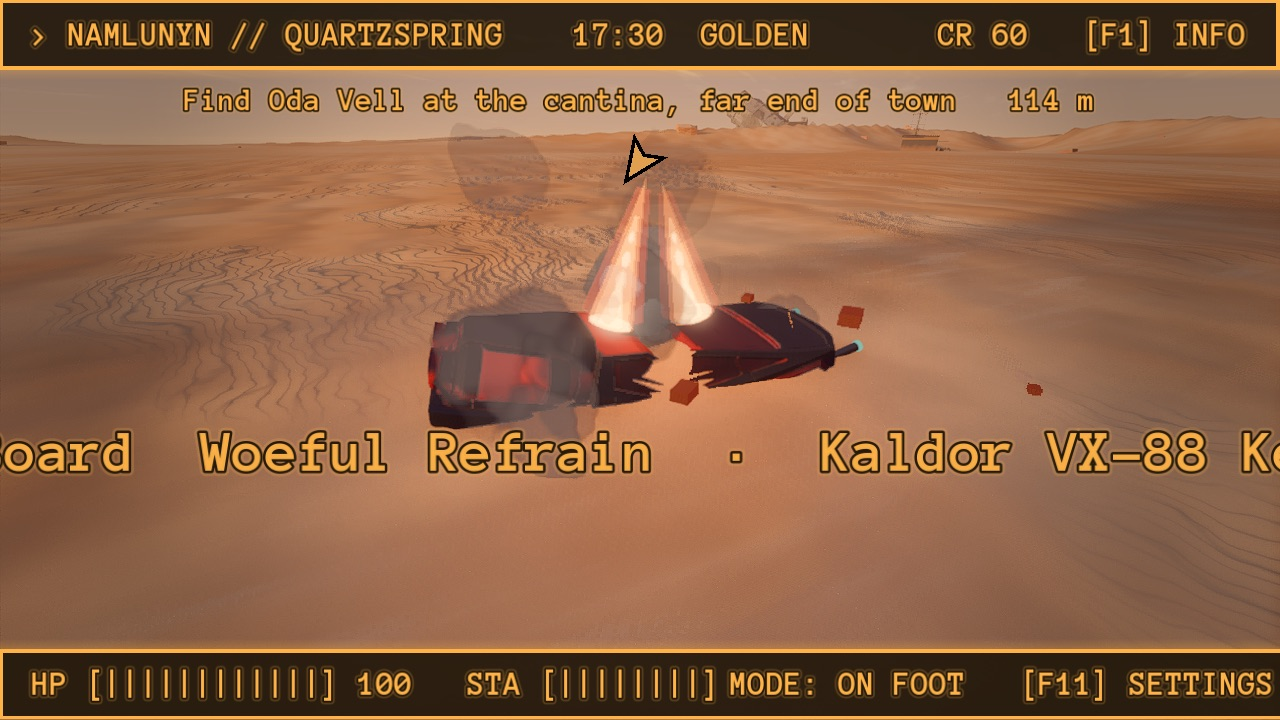
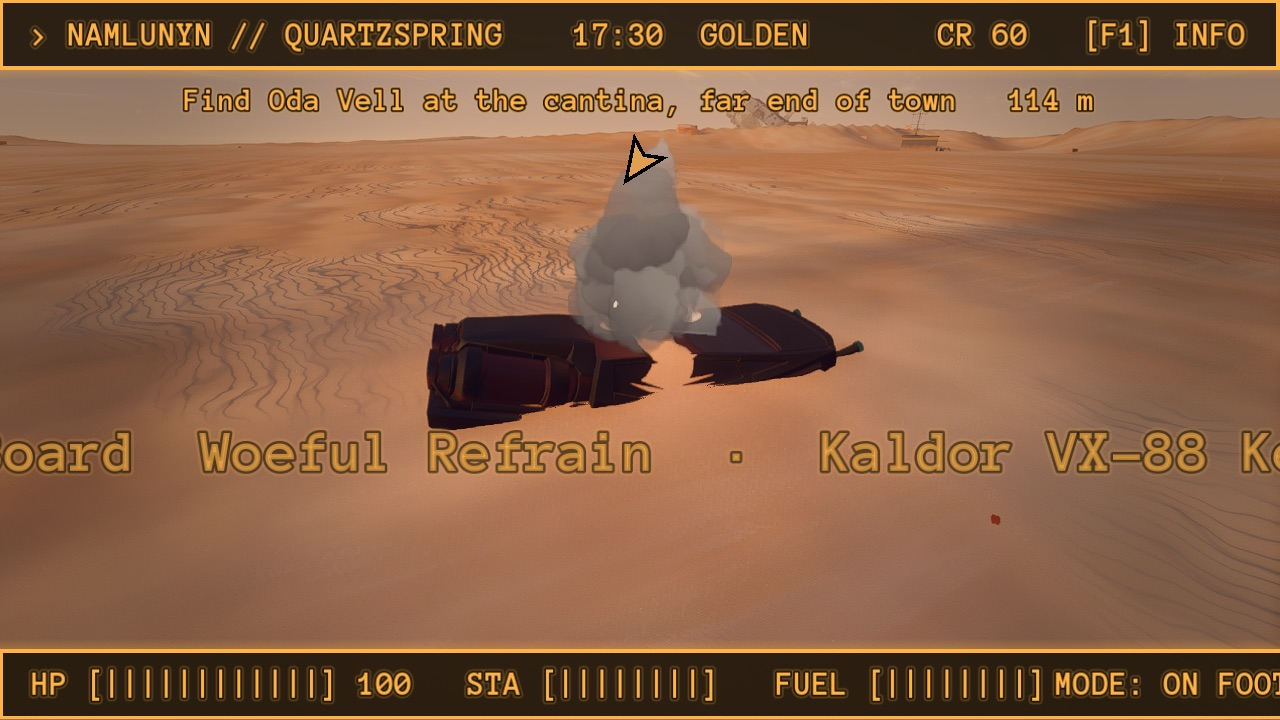
Crash animations: ships and the barge, smaller flames and more smoke (#404)
Parked ships shot to pieces, the player's ship and Remnant interceptors
going down (with the speed they had, from AtmoFlight.crash_velocity) and
the party barge all crash through CrashWreck now, on a copy of their model
(the berth, fighter and barge keep their own). A parked wreck stays where
it stands and settles only a little (it is often on a pad).

From the user's look at it: the flames are small licks at the break and
the smoke is thicker and lasts longer; the explosion is unchanged. Burnt
is a dark copy of each material (the overlay did not darken ship or barge
materials). flame_y puts the barge's fire on its deck, not its masts.

diff --git a/KNOWN_ISSUES.md b/KNOWN_ISSUES.md
@@ -8,28 +8,30 @@ desert) moved to [`docs/KNOWN_ISSUES_ARCHIVE.md`](docs/KNOWN_ISSUES_ARCHIVE.md).
 When a section here stops being true, move it there rather than marking it;
 `tests/test_docs.gut.gd` fails if this file marks a section as replaced.
 
-## After crash animations, part 1: speeders (issue #404, 2026-11-24)
+## After crash animations (issue #404, 2026-11-24)
 
 **Checked:** `tests/test_crash.gut.gd` (4: the same start gives the same path; on
 flat sand and on dunes, for every kind, it never goes under the sand and ends
 exactly on it; it keeps going and rolls; the wreck goes spiral, sink, burn,
 cold in order, splits in two and frees itself once out of sight and far away).
-`test_smoke`, `test_ip_neutral`, a headless town boot, and a rendered probe in
-the port (a gate speeder knocked out at 22 m/s, 7 m up: stills in
-`docs/lookdev/crash/`).
+`test_smoke`, `test_ip_neutral`, a headless town boot, and rendered probes in
+the port: a gate speeder knocked out at 22 m/s and 7 m up, a parked ship shot to
+pieces, the party barge blown up (stills in `docs/lookdev/crash/`).
 
-- **Speeders only.** Flying ships shot down, parked ships and the party barge
-  still blow up as before; they are the next PR (the path, the numbers and the
-  wreck already take "ship" and "barge").
+- **Not seen on screen:** a Remnant interceptor shot down in flight, and your
+  own ship shot down or flown into the ground. They go through the same call
+  (`ShipPilot.crash_wreck`) as the parked ship, with the speed they had.
 - **The cut is rough:** triangles are kept whole on whichever side their middle
   is, so the break is jagged and open (no cap). It reads as torn metal under the
   smoke; there is no inside.
-- **Lit parts stay lit:** the burnt tint is a dark overlay, so emissive trim
-  (the speeder's teal skids, a bright tank) still glows a little.
+- **Burnt** is a dark copy of each BaseMaterial3D (shared, made once a
+  material); a ShaderMaterial gets a dark overlay instead, which darkens less.
+- **The barge's wreck is its decks only** (the merged hull, no club, no people),
+  and it can lie where the rebuilt barge later comes back.
 - **The fire's light** is one shadowless OmniLight3D a wreck while the flames
   last (25 s); several crashes at once add one each.
-- **No hook test** (a real speeder destroyed in a scene starts one crash): the
-  probe did it on screen; GUT does not build a speeder with the look on.
+- **No hook test** (a real vehicle destroyed in a scene starts one crash): the
+  probes did it on screen; GUT does not build vehicles with the look on.
 
 ## After the cruise and the star system (issues #575, #576, 2026-11-14)
 
